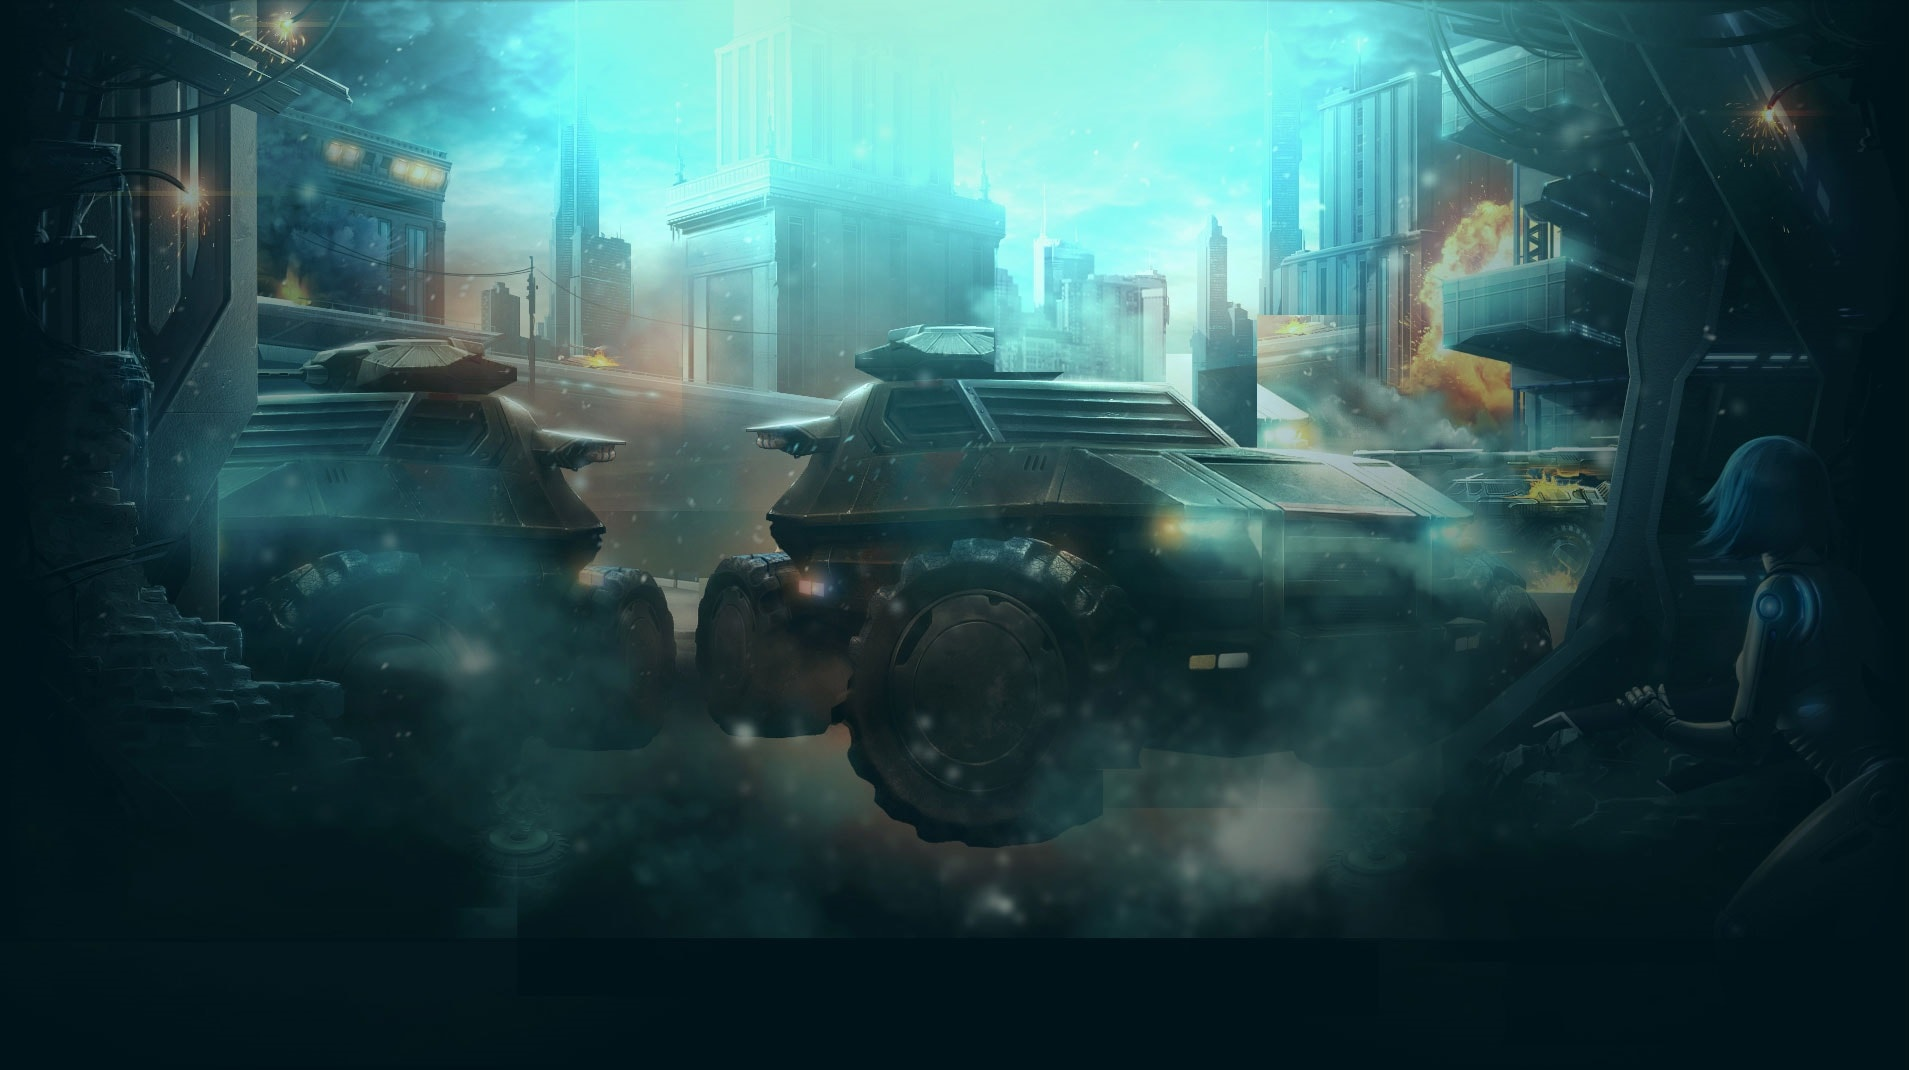
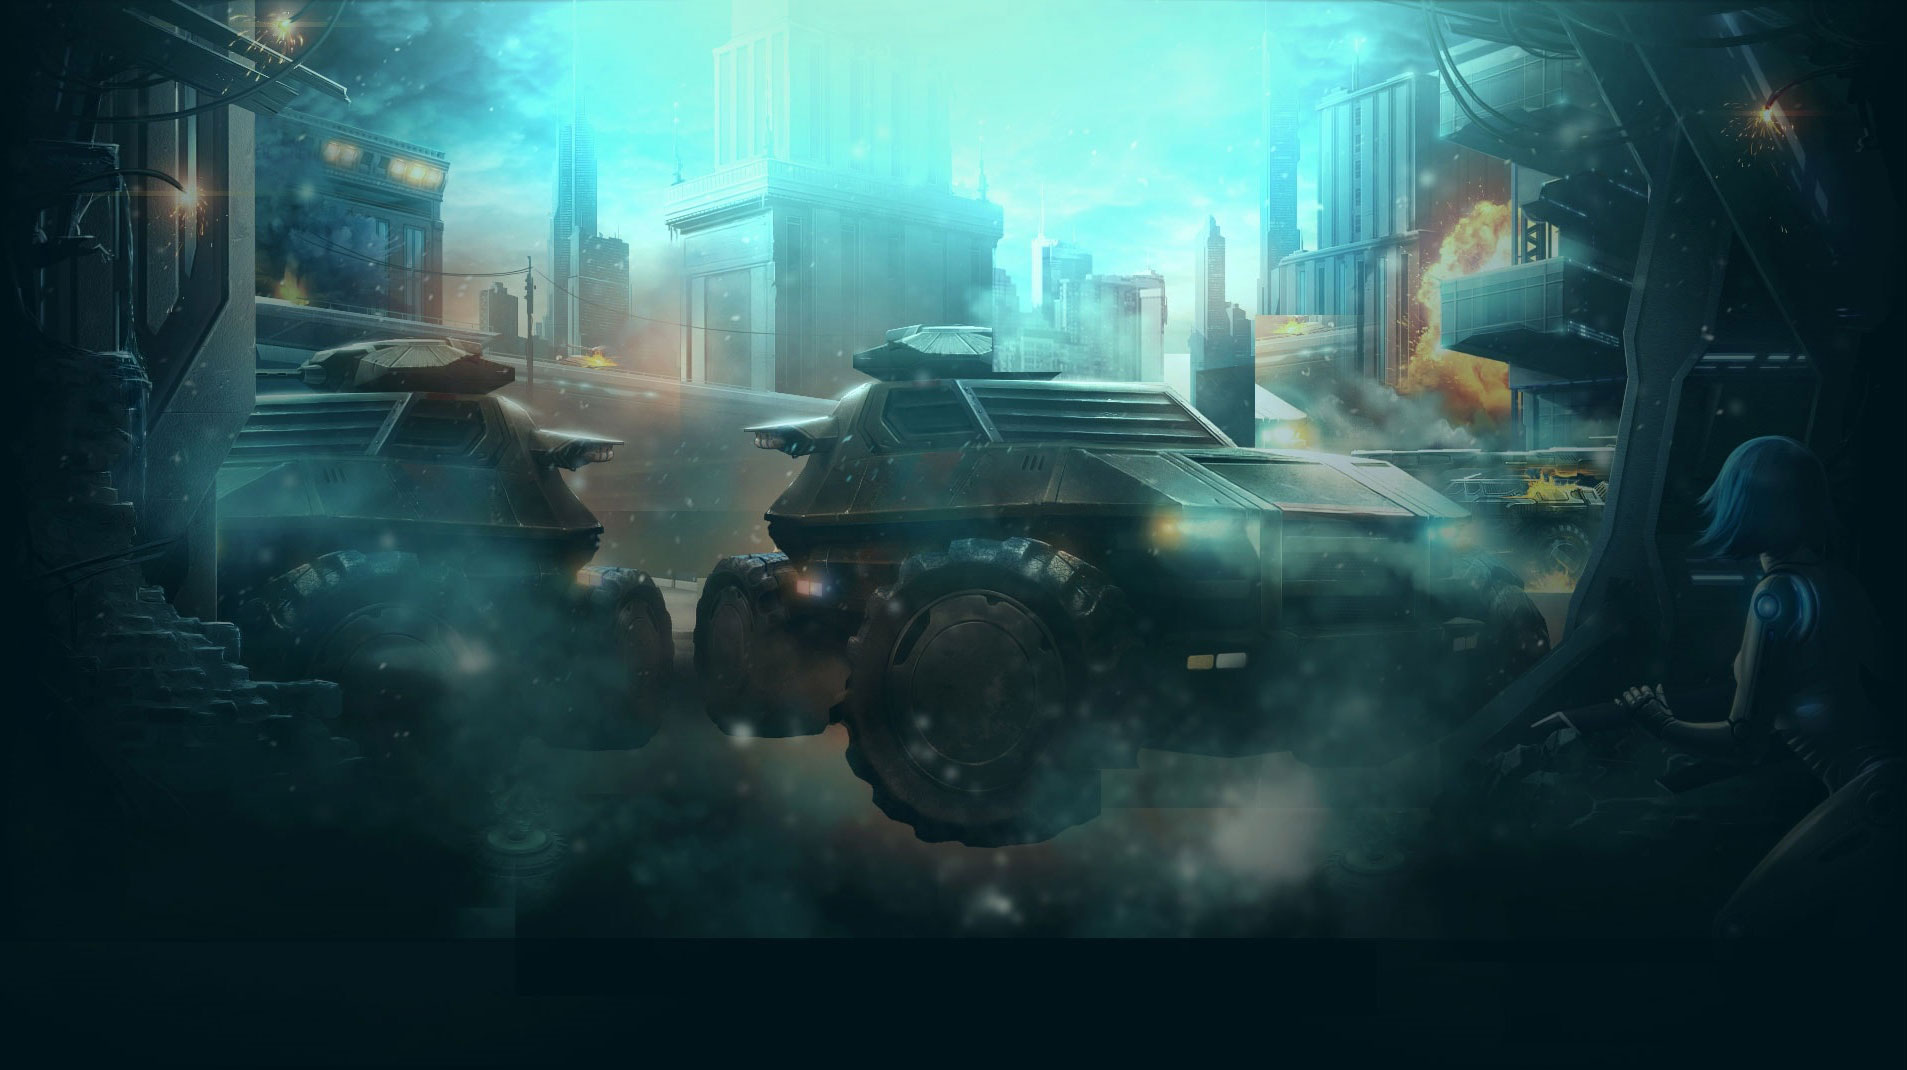
margin

diff --git a/points/css/general.css b/points/css/general.css
@@ -8,7 +8,7 @@ body {
 	line-height: 18px;
 }
 .main {
-	width: 1168px;
+	width: 1169px;
 	margin: 0 auto;
 }
 #logos {
@@ -43,11 +43,14 @@ h1 {
 }
 #table {
 	background:url("/points/img/general/bg-main.gif") repeat-y;
+	margin: 0;
+    padding: 0;
 }
 .table-t {
 	background:url("/points/img/general/bg-main-snow.png") no-repeat;
 	min-height: 890px;
 	padding: 110px 125px 0;
+	margin: 0;
 }
 .right-content {
 	top: 2em;
